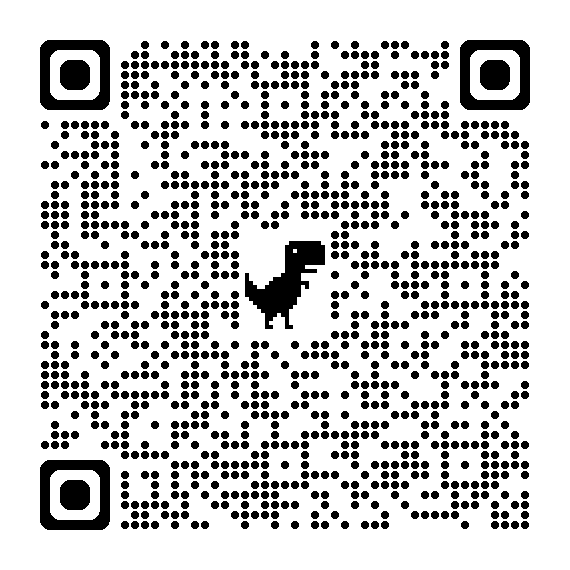
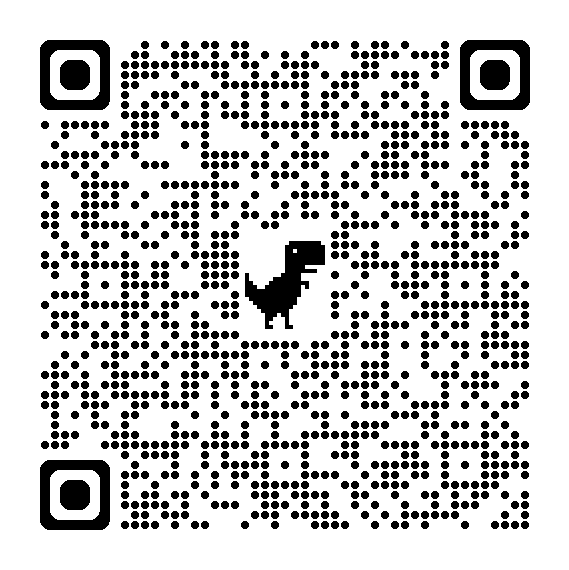
Add correct QR code

diff --git a/SoTL2024/Presentation.md b/SoTL2024/Presentation.md
@@ -3,7 +3,7 @@ author:   Sebastian Zug; André Dietrich
 
 email:    sebastian.zug@informatik.tu-freiberg.de
 
-version:  0.0.9
+version:  0.1.0
 
 language: en
 
